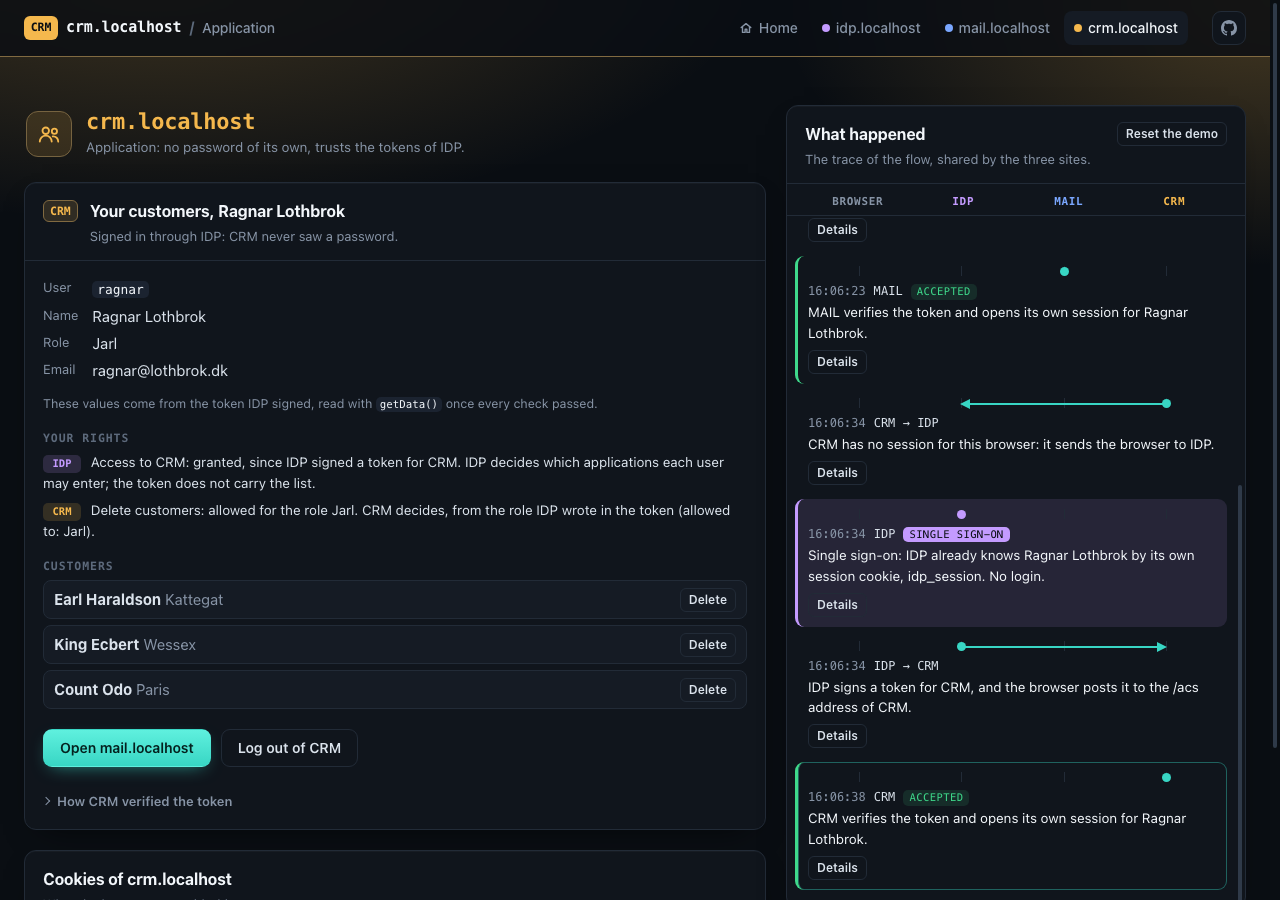
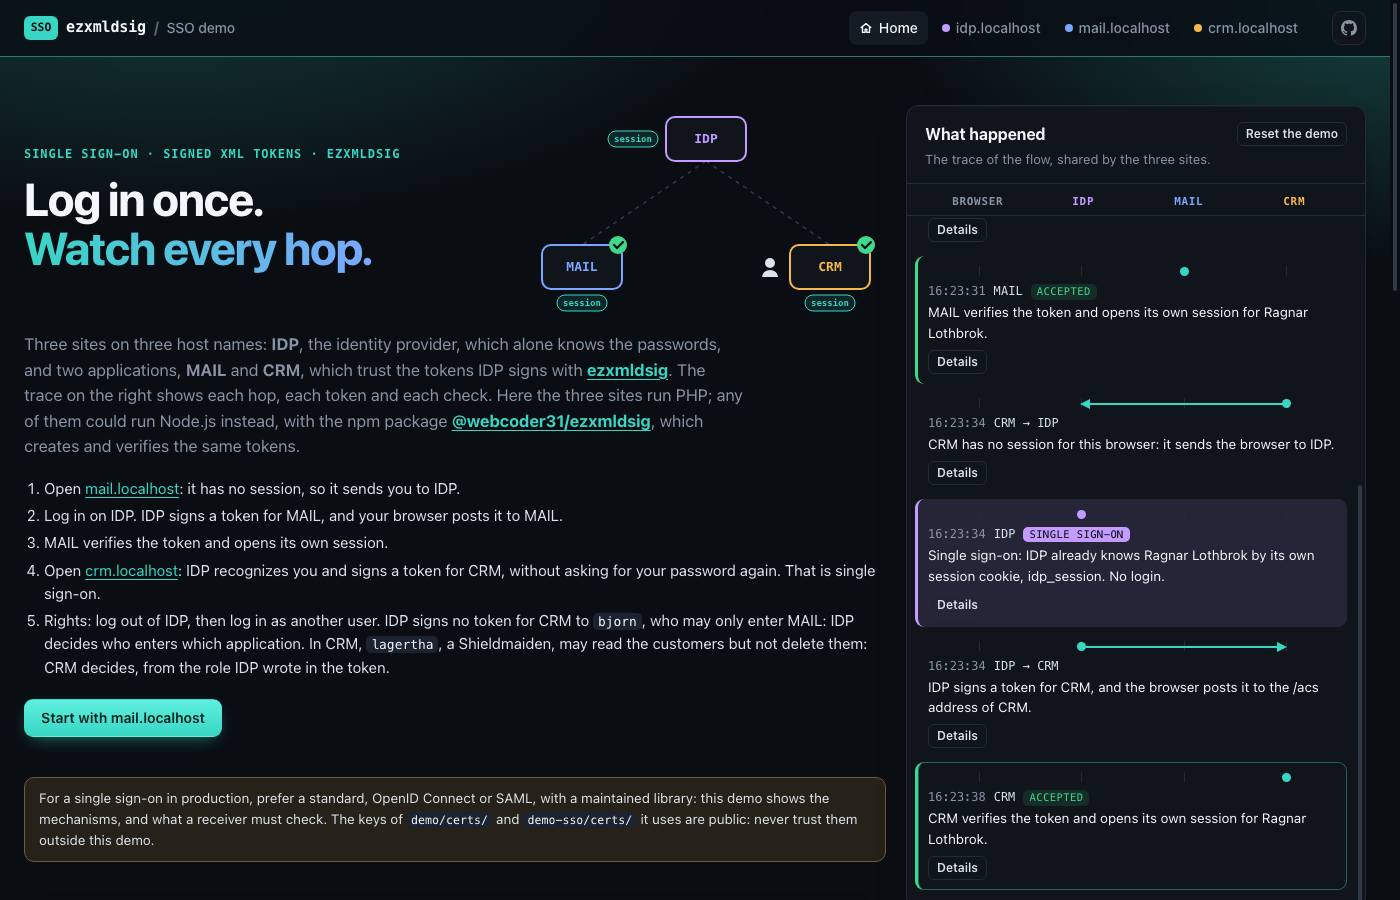
Explain how tokens work in the README, and show the illustrations in the screenshots
A section "How does it work?" explains in simple terms how a token is
created and verified: the digest of the data, the signature of
SignedInfo, the trust in the certificate that decides the authenticity,
then the audience, freshness, expiry and replay, and reading the data
only from the signed node.

The screenshots of both demos now show their home page with its
animated illustration, at 1400 x 900, where the illustration of the
single sign-on demo is shown.

diff --git a/README.md b/README.md
@@ -16,6 +16,7 @@ The author of the **ezxmldsig** library is Thierry Thiers.
 * [What's in the box?](#whats-in-the-box)
     * [XMLDSigToken class](#xmldsigtoken-class)
     * [X509Cert class](#x509cert-class)
+* [How does it work?](#how-does-it-work)
 * [How to use?](#how-to-use)
     * [Creating a signed XML token](#xmldsigtoken-creating-a-signed-xml-token)
     * [Creating a signed XML token with encrypted user data](#xmldsigtoken-creating-a-signed-xml-token-with-encrypted-user-data)
@@ -104,6 +105,50 @@ The class allows choosing the algorithms that should be used to perform data enc
 ### X509Cert class
 
 The ``X509Cert`` class provides a set of convenient methods for extracting essential information contained in an X.509 certificate and for performing some useful checks, all of them with OpenSSL: whether the certificate was issued by a given CA certificate (``isValidCA()``), whether OpenSSL verifies its chain up to trusted CA certificates (``isTrustedBy()``), whether its key usage allows signing (``canSign()``). This class is used internally by the ``XMLDSigToken`` class.
+
+
+## How does it work?
+
+A token works like a letter in an envelope sealed with wax and the seal of an authority: anyone may read the letter (unless it is encrypted), nobody can change it without breaking the seal, and a fake seal, however well made, does not fool a receiver who knows the real one.
+
+**Two linked keys.** The sender owns an RSA key pair: a **private key**, known to it alone, which signs, and a **public key**, which anyone may hold, which verifies. What the private key signs, the public key verifies; but the public key cannot sign. To produce a valid signature, one must hold the private key. The public key travels in an **X.509 certificate**, a kind of identity card that says "this public key belongs to this sender", itself signed by a certification authority (CA).
+
+**Creating a token.**
+
+1. The user data are written in the node ``Token``, with a timestamp, a random identifier and, as options, an expiry and the receivers the token is addressed to (its audience).
+2. A **digest** (SHA-256 by default) of this node is computed: it changes entirely if a single character of the node changes. It is written in ``ds:SignedInfo`` (``ds:DigestValue``).
+3. The sender **signs ``ds:SignedInfo``** with its private key, and writes the result in ``ds:SignatureValue``. Since ``ds:SignedInfo`` holds the digest of the data, signing the one seals the other.
+4. The **certificate** of the sender is added to the token (``ds:KeyInfo``), so that the receiver knows which public key to verify with.
+
+When the data are encrypted (see [Encryption](#encryption)), they are encrypted before being signed: the signature covers the encrypted data. Encryption protects their confidentiality; the authenticity of the token rests on the signature alone.
+
+**Verifying a token: three questions.**
+
+1. **Were the data changed?** The receiver computes the digest of the data again and compares it with ``ds:DigestValue``. If they differ, someone changed the content.
+2. **Is the seal intact?** With the public key of the certificate the token carries, the receiver verifies that ``ds:SignatureValue`` matches ``ds:SignedInfo``. Whoever changes the digest to match altered data breaks the signature.
+3. **Who sealed it?** This is the question that decides. An attacker can alter the data, then **sign everything again with a key of their own** and add **their own certificate**: questions 1 and 2 then pass, the digest and the signature being mathematically correct. But the seal is not the one of the sender. The receiver must therefore check that the certificate of the token is trusted: issued by a CA it chose to trust (``caCertPath``), or the very certificate it expects (``signerCertPath``), and, when it asks for it, with the subject it expects (``expectedSubject``). The certificate of the attacker meets none of these conditions: the token is rejected (see [Trust anchor](#trust-anchor)).
+
+**A valid signature proves nothing until one knows who made it**: the authenticity of a token is its signature, plus the trust in the key that made it.
+
+**What else is checked.** An authentic token can still be misused. The receiver also checks:
+
+* the **algorithms**: only those it expects, not a weak one chosen by an attacker;
+* the **audience**: the token is addressed to this receiver; a token signed for one application must not open another (see [Audience and expiry](#audience-and-expiry));
+* the **freshness** and the **expiry**: a token too old is rejected;
+* the **replay**: the identifier of each token accepted is stored, and a token already accepted is rejected (see [Replay](#replay)).
+
+The first two are made by ``isSignatureValid()``; freshness, expiry and replay are up to the receiver (see [Checking an XML token](#xmldsigtoken-checking-an-xml-token)).
+
+Lastly, the data must be read **only from the node the signature covers**, never from elsewhere in the document: otherwise, a forged ``Token`` placed beside the signed one would be read (signature wrapping). The library rejects documents built this way, and ``getData()`` reads the node the digest was computed on.
+
+| Question | Mechanism | What it prevents |
+|---|---|---|
+| Are the data intact? | Digest of the node ``Token`` | Altering the data |
+| Is the seal intact? | Signature of ``ds:SignedInfo`` | Altering the digest |
+| Is it the expected sender? | Trust in the certificate (CA, pinned certificate, subject) | Signing again with another key |
+| Right receiver, right time, first use? | Audience, freshness, expiry, replay | Reusing a genuine token where or when it should not be |
+
+The [demo](#demo) plays these checks out on real tokens, and replays the attacks the library rejects.
 
 
 ## How to use?
@@ -807,7 +852,7 @@ bin/demo 9000     # another port (or DEMO_PORT=9000)
 
 The script first brings `vendor/` in line with `composer.json` with `bin/deps` (as `bin/test` does, see [Tests](#tests)), runs the PHP built-in web server in the official `php:8.3-cli` image, publishes it on `127.0.0.1` only, and opens the page in the browser when it can (`DEMO_NO_BROWSER=1` skips it). Ctrl-C stops it.
 
-![The demo: the issuer, the annotated token and the receiver's pipeline of checks](demo/screenshot.png)
+![The demo: its animated illustration of a token verified and accepted, the issuer, and the annotated token with the block SignedInfo selected](demo/screenshot.png)
 
 Every token of the demo is created and analyzed by the library, in PHP; the page only displays them:
 
@@ -846,7 +891,7 @@ bin/demo-sso 9090     # another port (or DEMO_SSO_PORT=9090)
 3. MAIL verifies the token: the checks of the library (`isSignatureValid()`: signature, trust in the certificate of IDP, audience), then its own (freshness, replay). It opens its own session.
 4. Open `http://crm.localhost:8090/`: IDP recognizes the user by its own session cookie and signs a token for CRM, without asking for the password again. That is single sign-on.
 
-![The single sign-on demo: CRM, entered without a new login, and the trace of the flow between the browser, IDP, MAIL and CRM](demo-sso/screenshot.png)
+![The single sign-on demo: its home page, with its animated illustration of the flow, and the trace of a login on MAIL then of CRM entered without a new login](demo-sso/screenshot.png)
 
 The pages show what the library checks and what each application checks itself, the cookies of each site (each site has its own: a cookie is sent to the host that set it), and the trace of the flow: each hop between the browser, IDP, MAIL and CRM, with each token and each check.
 
